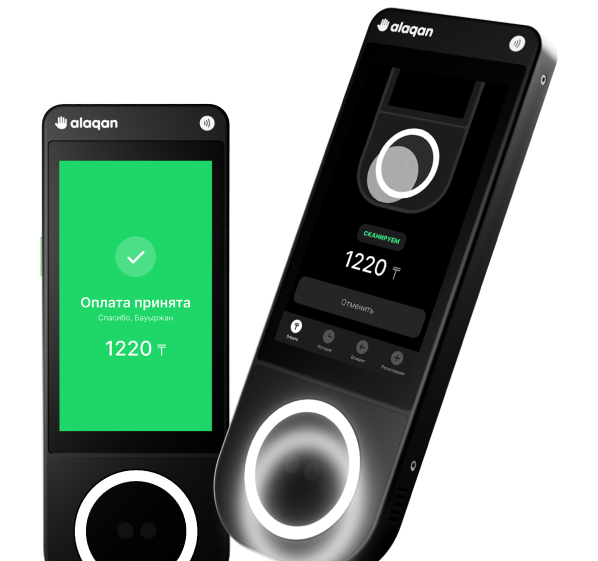
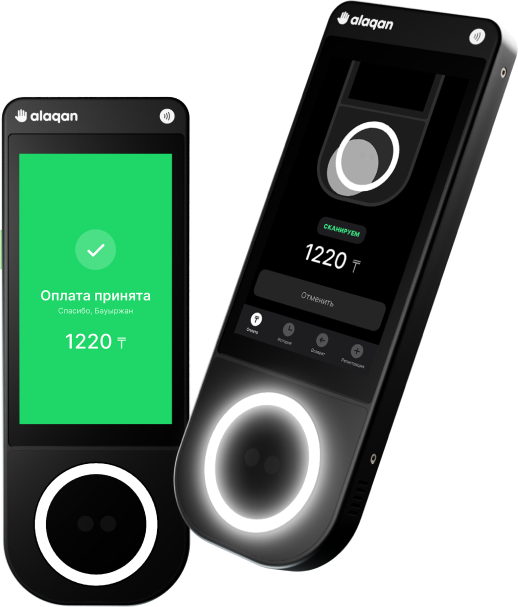
terminaltype changes

diff --git a/src/components/TerminalType/TerminalType.jsx b/src/components/TerminalType/TerminalType.jsx
@@ -55,7 +55,7 @@ const TerminalType = () => {
               src={MobileTerminal}
               alt=""
               style={{
-                transform: isExpanded[0] ? "translateY(-10px) scale(1.1)" : "translateY(-60px) scale(1.1)",
+                transform: isExpanded[0] ? "translateY(-10px) scale(1.1)" : "translateY(-30px) scale(1.1)",
                 transition: "transform 0.3s linear",
               }}
             />
@@ -91,14 +91,14 @@ const TerminalType = () => {
                 />
               </div>
             </div>
-            <p className={isExpanded[1] ? "visible" : "hidden"}>
+            <p className={isExpanded[1] ? "vis" : "hid"}>
               Настольный терминал с чековым принтером.
             </p>
             <img
               src={StationaryTerminal}
               alt=""
               style={{
-                transform: isExpanded[1] ? "translateY(-30px) scale(0.9)" : "translateY(-60px) scale(0.9)",
+                transform: isExpanded[1] ? "translateY(30px) scale(0.9)" : "translateY(100px) scale(0.9)",
                 transition: "transform 0.3s linear",
               }}
             />

diff --git a/src/components/TerminalType/TerminalType.scss b/src/components/TerminalType/TerminalType.scss
@@ -87,16 +87,15 @@
           p {
             font-size: 18px;
             font-weight: 400;            
-            transition: opacity 0.3s ease, height 0.3s ease;
-
+            
             @include respond(phone){
               font-size: 14px;
             }
           }
-          p.hidden{
-            opacity: 0;
+          p.hid{
+            opacity: 1;
           }
-          p.visible {
+          p.vis {
             opacity: 1;
             height: auto;
           }
@@ -105,7 +104,7 @@
             width: auto;
             height: auto;
             position: relative;
-            bottom: 0;
+            bottom: 10%;
             will-change: transform;
 
             @include respond(phone){

diff --git a/src/App.jsx b/src/App.jsx
@@ -1,5 +1,5 @@
 import Navbar from "./components/navbar/Navbar";
-import WelcomeMain from "./components/WelcomeMain/WelcomeMain";
+import WelcomeMain from "./components/WelcomePay/WelcomeMain";
 import PaymentEvolution from "./components/PaymentEvolution/PaymentEvolution";
 import Application from "./components/Application/Application";
 import Onboarding from "./components/Onborading/Onboarding";
@@ -25,7 +25,7 @@ const App = () => {
     <TerminalType />
     <IdentificationType />
     <FAQ />
-    {/* <Feadback /> */}
+    <Feadback />
     
     <Footer />
     </>
